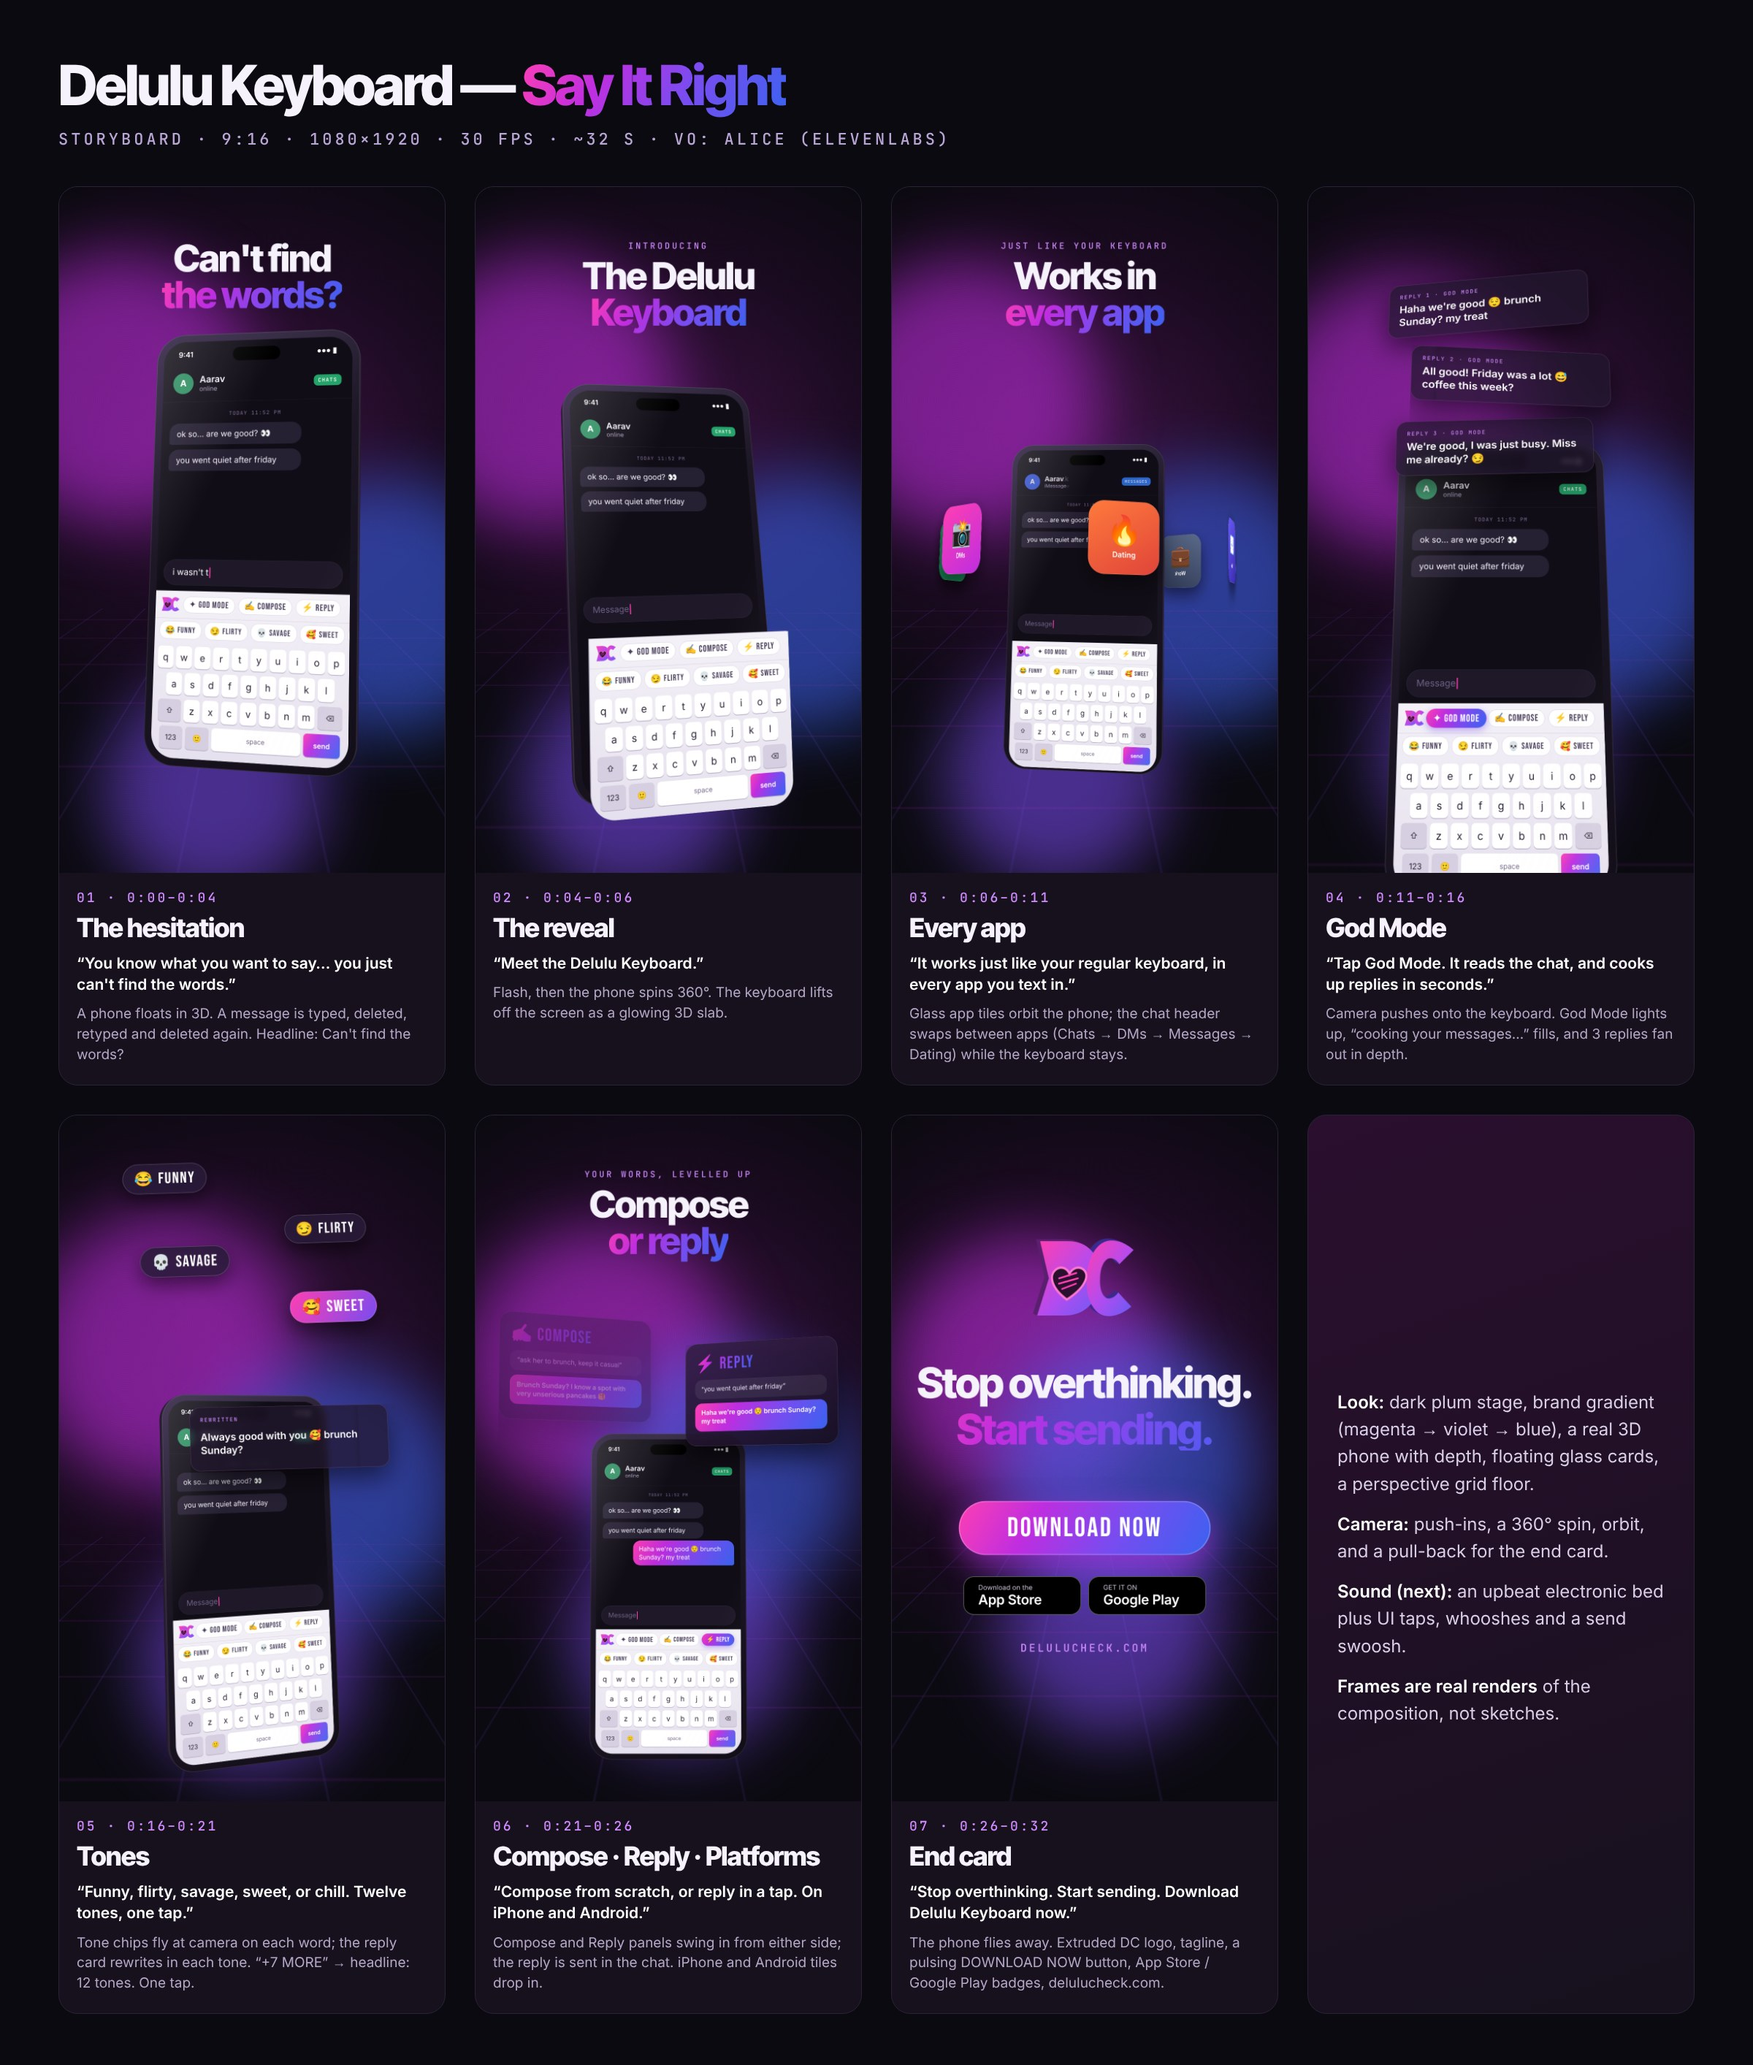
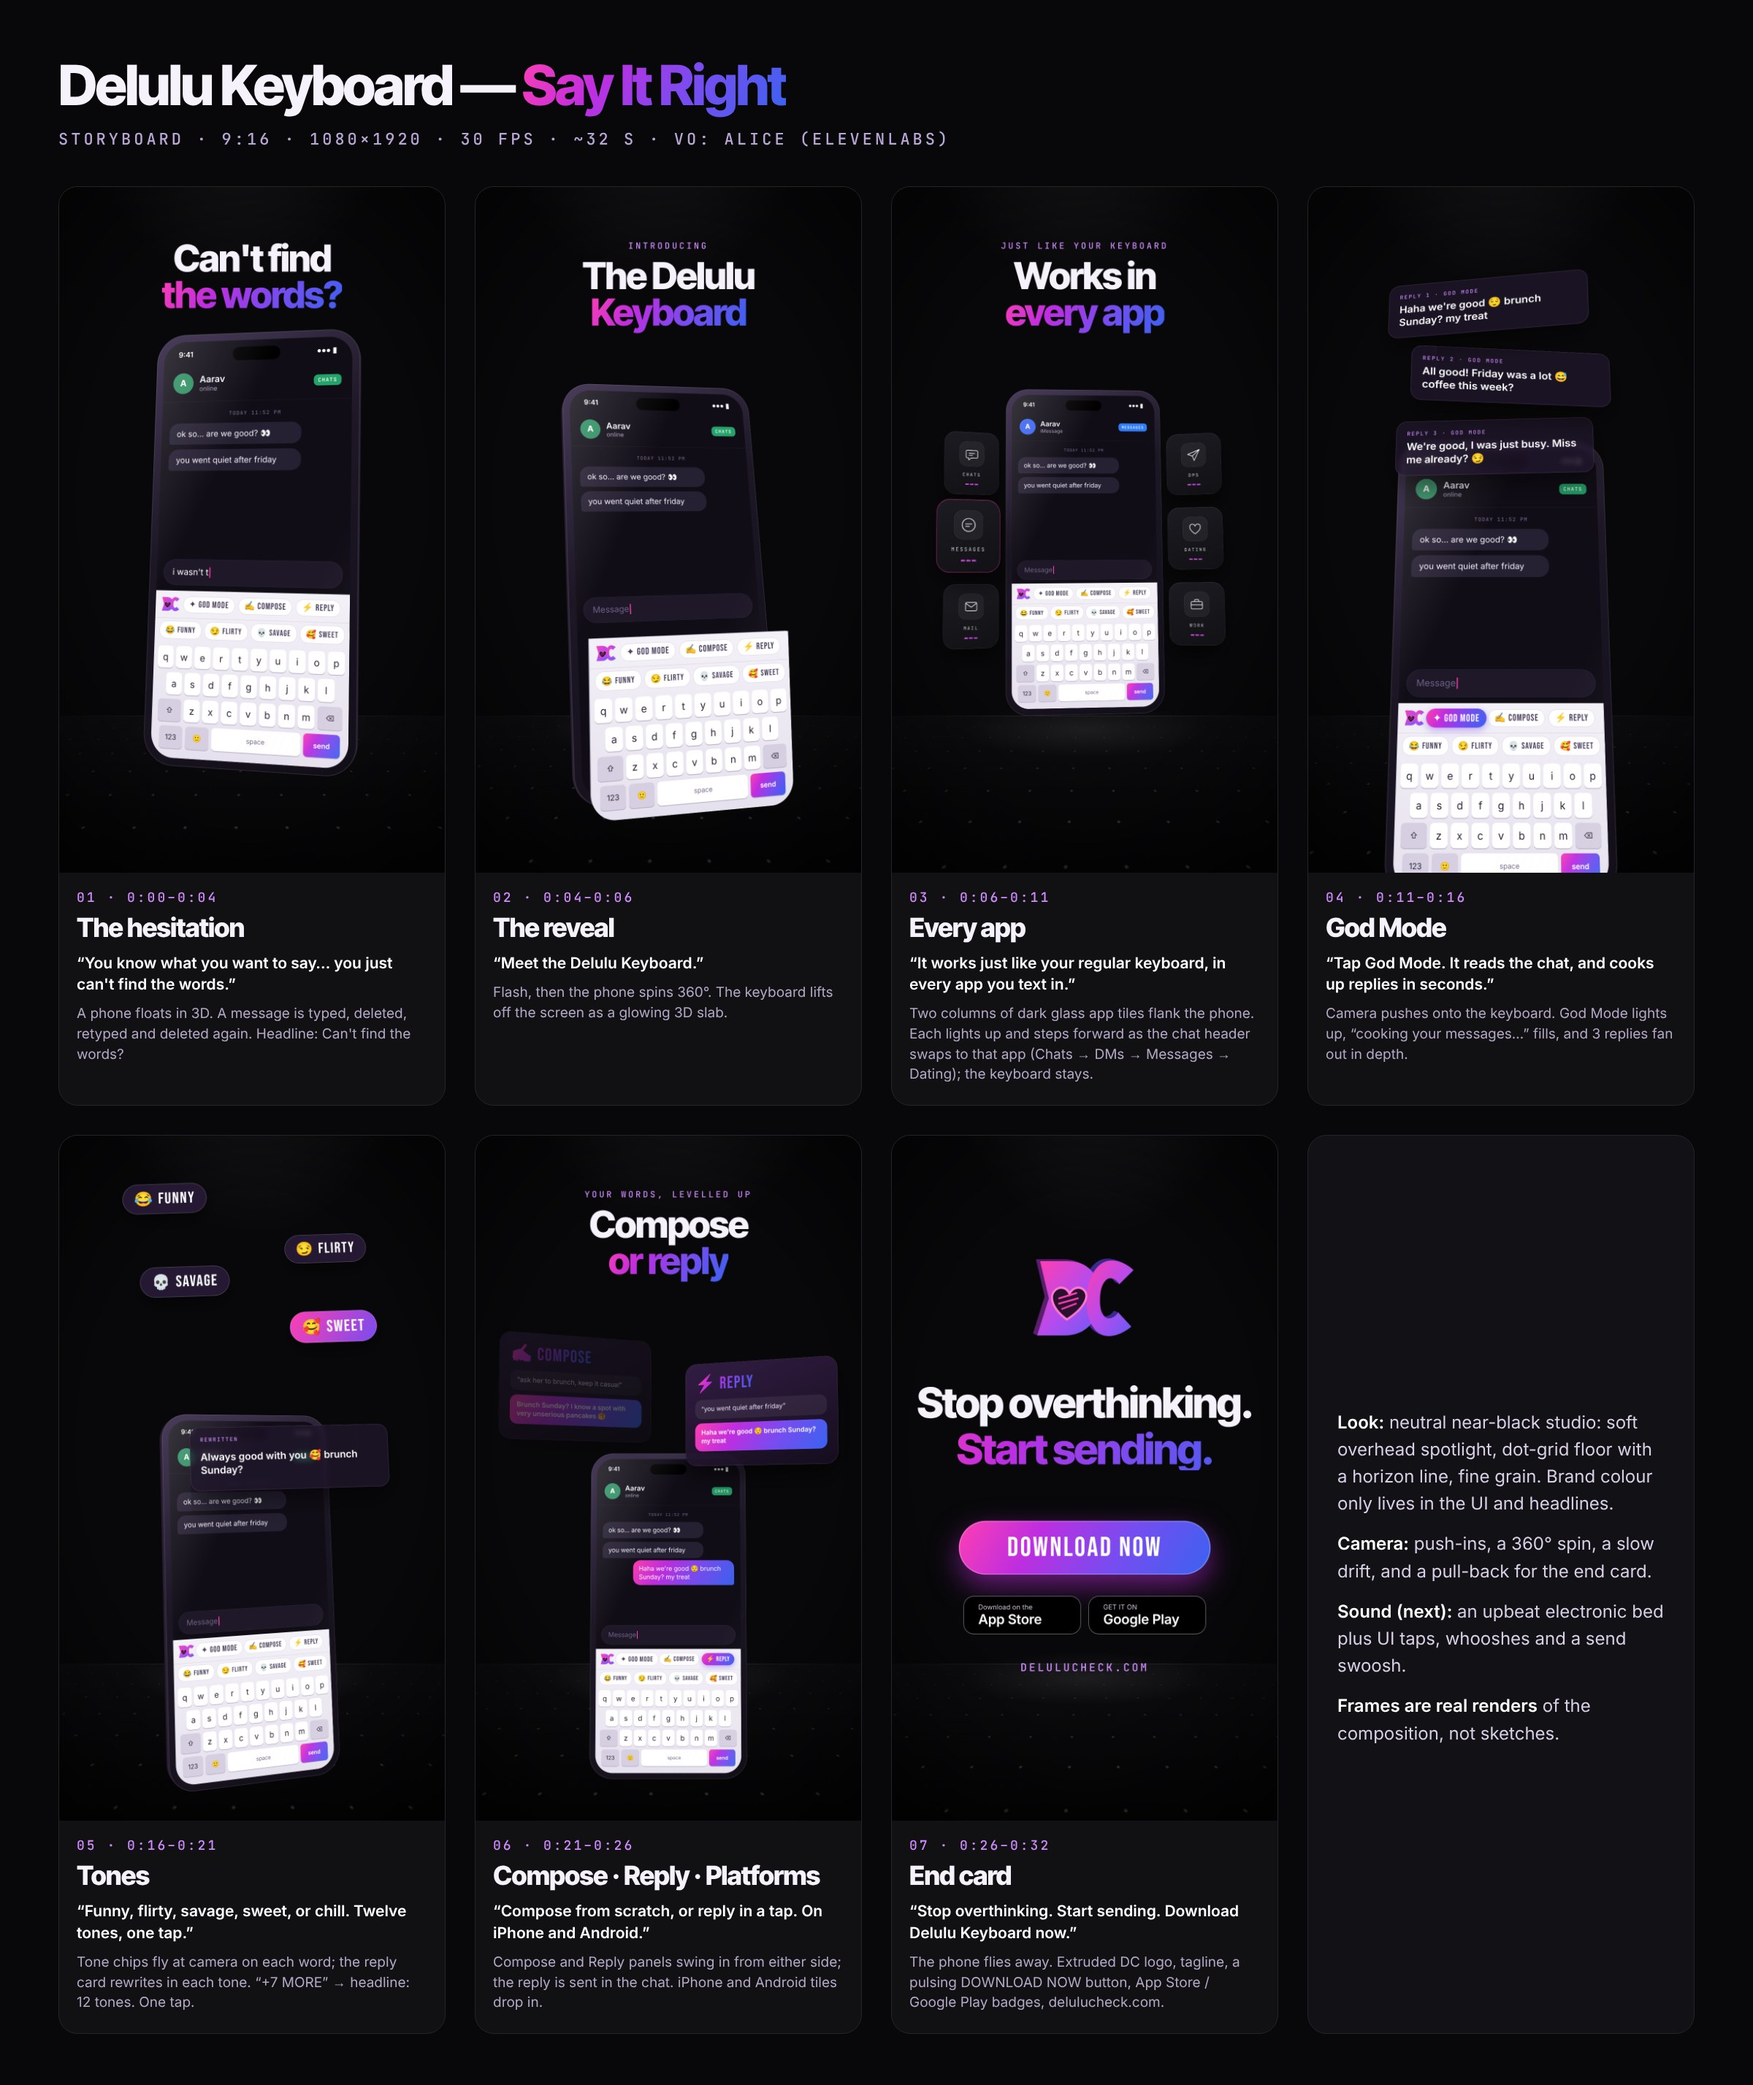
Delulu Keyboard: neutral studio background, redesigned app tiles in scene 3
Claude-Session: https://claude.ai/code/session_011HgaDvzB2TFRzZhuJwdZ16

diff --git a/delulu-keyboard/index.html b/delulu-keyboard/index.html
@@ -25,13 +25,18 @@ html,body{width:1080px;height:1920px;overflow:hidden;background:var(--ground)}
 .emo{font-family:Emo,sans-serif}
 
 /* ---------- background ---------- */
-#bg{background:radial-gradient(1200px 1100px at 50% 38%,#3a1340 0%,#1c0b22 45%,#0b0a10 80%)}
-.orb{position:absolute;border-radius:50%;filter:blur(90px);opacity:.55}
-#floor{position:absolute;left:-600px;right:-600px;top:1180px;height:1400px;transform-origin:50% 0;
-  transform:perspective(900px) rotateX(72deg);
-  background-image:linear-gradient(rgba(192,46,224,.28) 2px,transparent 2px),linear-gradient(90deg,rgba(122,76,240,.28) 2px,transparent 2px);
-  background-size:120px 120px;-webkit-mask-image:linear-gradient(#000,transparent 70%);mask-image:linear-gradient(#000,transparent 70%)}
-#grain{position:absolute;inset:0;opacity:.07;mix-blend-mode:overlay;
+#bg{background:#08080a}
+#spot{position:absolute;left:-200px;right:-200px;top:-500px;height:2000px;
+  background:radial-gradient(ellipse 700px 1100px at 50% 0%,rgba(235,232,240,.13) 0%,rgba(235,232,240,.05) 40%,rgba(0,0,0,0) 72%)}
+#horizon{position:absolute;left:0;right:0;top:1480px;height:440px;background:linear-gradient(#0d0d10,#060607)}
+#hline{position:absolute;left:0;right:0;top:1480px;height:1px;background:linear-gradient(90deg,transparent,rgba(255,255,255,.14) 30%,rgba(255,255,255,.14) 70%,transparent)}
+#pool{position:absolute;left:190px;width:700px;top:1440px;height:160px;border-radius:50%;background:radial-gradient(closest-side,rgba(255,255,255,.07),transparent)}
+#vig{position:absolute;inset:0;background:radial-gradient(ellipse 900px 1300px at 50% 45%,transparent 55%,rgba(0,0,0,.65) 100%)}
+#floor{position:absolute;left:-600px;right:-600px;top:1480px;height:1400px;transform-origin:50% 0;
+  transform:perspective(700px) rotateX(70deg);
+  background-image:radial-gradient(circle,rgba(255,255,255,.22) 1.6px,transparent 2.2px);
+  background-size:64px 64px;-webkit-mask-image:linear-gradient(rgba(0,0,0,.25),#000 30%,transparent 80%);mask-image:linear-gradient(rgba(0,0,0,.25),#000 30%,transparent 80%)}
+#grain{position:absolute;inset:0;opacity:.05;mix-blend-mode:overlay;
   background-image:repeating-radial-gradient(circle at 17% 31%,#fff 0 1px,transparent 1px 3px)}
 
 /* ---------- stage / 3D ---------- */
@@ -94,10 +99,14 @@ html,body{width:1080px;height:1920px;overflow:hidden;background:var(--ground)}
 .card .lab{font:500 16px Mono;letter-spacing:3px;color:#d08bff;margin-bottom:10px}
 .card .tx{font:600 30px/1.3 Inter;color:#fff}
 .reply{width:560px}
-.appcard{width:230px;height:230px;border-radius:52px;display:flex;flex-direction:column;align-items:center;justify-content:center;gap:14px;
-  border:1.5px solid rgba(255,255,255,.18);box-shadow:0 30px 70px rgba(0,0,0,.5)}
-.appcard .ic{font-size:92px;line-height:1}
-.appcard .nm{font:600 24px Inter;color:#fff}
+.appcard{position:absolute;width:210px;height:240px;border-radius:44px;display:flex;flex-direction:column;align-items:center;justify-content:center;gap:22px;
+  background:linear-gradient(160deg,#1d1c22 0%,#121115 100%);border:1px solid rgba(255,255,255,.12);
+  box-shadow:0 1px 0 rgba(255,255,255,.10) inset,0 40px 80px rgba(0,0,0,.6)}
+.appcard .ic{width:96px;height:96px;border-radius:28px;display:flex;align-items:center;justify-content:center;
+  background:rgba(255,255,255,.05);border:1px solid rgba(255,255,255,.10)}
+.appcard .ic svg{width:54px;height:54px;fill:none;stroke:#f2eff6;stroke-width:2.2;stroke-linecap:round;stroke-linejoin:round}
+.appcard .nm{font:500 17px Mono;letter-spacing:4px;color:#b9b4c2}
+.appcard .kb{display:flex;gap:4px}.appcard .kb i{width:14px;height:6px;border-radius:2px;background:linear-gradient(90deg,#ff3fb4,#7a4cf0)}
 .tone3d{position:absolute;height:96px;padding:0 34px;border-radius:48px;display:flex;align-items:center;gap:14px;
   font:400 50px Bebas;letter-spacing:3px;color:#fff;background:rgba(40,26,56,.85);border:2px solid rgba(255,255,255,.18);box-shadow:0 24px 60px rgba(0,0,0,.5);white-space:nowrap}
 .tone3d .emo{font-size:46px}
@@ -133,10 +142,12 @@ html,body{width:1080px;height:1920px;overflow:hidden;background:var(--ground)}
 <div id="root" data-composition-id="main" data-start="0" data-duration="32.5" data-width="1080" data-height="1920">
 
   <div id="bg" class="clip" data-start="0" data-duration="32.5" data-track-index="0">
-    <div class="orb" id="o1" style="left:-220px;top:180px;width:760px;height:760px;background:#c02ee0"></div>
-    <div class="orb" id="o2" style="left:560px;top:820px;width:720px;height:720px;background:#3b63f0"></div>
-    <div class="orb" id="o3" style="left:120px;top:1380px;width:620px;height:620px;background:#7a4cf0"></div>
+    <div id="spot"></div>
+    <div id="horizon"></div>
     <div id="floor"></div>
+    <div id="hline"></div>
+    <div id="pool"></div>
+    <div id="vig"></div>
     <div id="grain"></div>
   </div>
 
@@ -174,7 +185,7 @@ html,body{width:1080px;height:1920px;overflow:hidden;background:var(--ground)}
       </div>
 
       <!-- app ring (S3) -->
-      <div id="ring" class="p3" style="left:0;top:-200px"></div>
+      <div id="ring" class="p3" style="left:0;top:0"></div>
 
       <!-- reply cards (S4) -->
       <div id="replies" class="p3" style="left:0;top:0"></div>
@@ -270,8 +281,17 @@ $('#rows').innerHTML = R.map((r, i) => `<div class="row">${i === 2 ? '<div class
   `<div class="row"><div class="k w">123</div><div class="k w emo">🙂</div><div class="k sp">space</div><div class="k go">send</div></div>`;
 
 // app ring
-const RING = [['💬', 'Messages', '#2f7cf6,#3b63f0'], ['🟢', 'Chats', '#1f9d63,#137a4c'], ['📸', 'DMs', '#ff3fb4,#c02ee0'], ['🔥', 'Dating', '#ff7a3d,#e0453a'], ['✉', 'Mail', '#6a5cf5,#3b2ab0'], ['💼', 'Work', '#5b6b8a,#2c3550']];
-$('#ring').innerHTML = RING.map((a, i) => `<div class="appcard p3 rc" style="left:-115px;top:-115px;background:linear-gradient(150deg,${a[2]});transform:rotateY(${i * 60}deg) translateZ(560px)"><div class="ic emo">${a[0]}</div><div class="nm">${a[1]}</div></div>`).join('');
+const ICON = {
+  chat: '<path d="M8 12h32a4 4 0 0 1 4 4v18a4 4 0 0 1-4 4H22l-9 7v-7H8a4 4 0 0 1-4-4V16a4 4 0 0 1 4-4z"/><path d="M14 22h20M14 29h12"/>',
+  dm: '<path d="M44 6 4 22l16 6 6 16z"/><path d="M20 28 44 6"/>',
+  msg: '<circle cx="24" cy="24" r="19"/><path d="M15 21h18M15 28h11"/>',
+  heart: '<path d="M24 41S6 30 6 18a9 9 0 0 1 18-3 9 9 0 0 1 18 3c0 12-18 23-18 23z"/>',
+  mail: '<rect x="5" y="10" width="38" height="28" rx="4"/><path d="m6 13 18 13 18-13"/>',
+  work: '<rect x="5" y="15" width="38" height="25" rx="4"/><path d="M17 15v-4a3 3 0 0 1 3-3h8a3 3 0 0 1 3 3v4M5 26h38"/>'
+};
+const RING = [['chat', 'CHATS'], ['dm', 'DMS'], ['msg', 'MESSAGES'], ['heart', 'DATING'], ['mail', 'MAIL'], ['work', 'WORK']];
+const TPOS = [[-430, -330], [430, -330], [-430, -40], [430, -40], [-430, 250], [430, 250]];
+$('#ring').innerHTML = RING.map((a, i) => `<div class="appcard p3 rc" id="rc${i}" style="left:${TPOS[i][0] - 105}px;top:${TPOS[i][1] - 120}px"><div class="ic"><svg viewBox="0 0 48 48">${ICON[a[0]]}</svg></div><div class="nm">${a[1]}</div><div class="kb"><i></i><i></i><i></i></div></div>`).join('');
 
 // reply cards
 const REPL = ['Haha we\'re good 😌 brunch Sunday? my treat', 'All good! Friday was a lot 😅 coffee this week?', 'We\'re good, I was just busy. Miss me already? 😏'];
@@ -295,10 +315,8 @@ gsap.set('#kb', { z: 0 });
 gsap.set('.hl', { y: 30 });
 
 // background life
-tl.to('#o1', { x: 220, y: 160, duration: 32.5, ease: 'sine.inOut' }, 0)
-  .to('#o2', { x: -260, y: -200, duration: 32.5, ease: 'sine.inOut' }, 0)
-  .to('#o3', { x: 180, y: -260, duration: 32.5, ease: 'sine.inOut' }, 0)
-  .to('#floor', { backgroundPosition: '0px 960px', duration: 32.5, ease: 'none' }, 0);
+tl.to('#floor', { backgroundPosition: '0px 640px', duration: 32.5, ease: 'none' }, 0)
+  .fromTo('#spot', { x: -40 }, { x: 40, duration: 32.5, ease: 'sine.inOut' }, 0);
 
 const hlIn = (id, t, out) => { tl.to(id, { opacity: 1, y: 0, duration: 0.5 }, t).to(id, { opacity: 0, y: -30, duration: 0.35, ease: 'power2.in' }, out); };
 
@@ -321,14 +339,21 @@ hlIn('#h2', 4.4, 6.0);
 /* S3 6.2–10.7: works in every app — ring orbits */
 tl.set('#rig', { rotationY: 14 }, 6.1);
 tl.to('#kb', { z: 0, y: 0, rotationX: 0, duration: 0.6, ease: 'power2.inOut' }, 6.1);
-tl.to('#rig', { rotationY: -8, rotationX: 8, z: -420, y: 220, scale: 0.86, duration: 1.0, ease: E }, 6.1);
-tl.fromTo('#ring', { opacity: 0, rotationY: 30, scale: 0.6 }, { opacity: 1, scale: 1, duration: 0.9 }, 6.4);
-tl.to('#ring', { rotationY: -300, duration: 4.4, ease: 'sine.inOut' }, 6.4);
+tl.to('#rig', { rotationY: 0, rotationX: 6, z: -420, y: 40, scale: 0.86, duration: 1.0, ease: E }, 6.1);
+tl.to('#rig', { rotationY: 8, duration: 3.4, ease: 'sine.inOut' }, 7.1);
+document.querySelectorAll('.rc').forEach((c, i) => {
+  tl.fromTo(c, { opacity: 0, z: -700, rotationY: i % 2 ? -50 : 50 }, { opacity: 1, z: 0, rotationY: i % 2 ? -14 : 14, duration: 0.8, ease: 'power3.out' }, 6.45 + i * 0.07);
+});
+const lit = (i, on, off) => {
+  tl.to(`#rc${i}`, { z: 180, scale: 1.08, borderColor: 'rgba(255,63,180,.9)', boxShadow: '0 0 0 1px rgba(255,63,180,.6), 0 30px 90px rgba(192,46,224,.35)', duration: 0.3 }, on)
+    .to(`#rc${i}`, { z: 0, scale: 1, borderColor: 'rgba(255,255,255,.12)', boxShadow: '0 1px 0 rgba(255,255,255,.10) inset, 0 40px 80px rgba(0,0,0,.6)', duration: 0.3 }, off);
+};
+lit(0, 6.9, 7.55); lit(1, 7.6, 8.7); lit(2, 8.75, 9.65); lit(3, 9.7, 10.25);
 [7.6, 8.75, 9.7].forEach((t, i) => {               // header swaps app by app
   tl.to(`#ah${i}`, { opacity: 0, duration: 0.15 }, t).to(`#ah${i + 1}`, { opacity: 1, duration: 0.15 }, t);
   tl.to('#kb', { y: 22, duration: 0.08, ease: 'none' }, t).to('#kb', { y: 0, duration: 0.35, ease: 'back.out(2)' }, t + 0.08);
 });
-tl.to('#ring', { opacity: 0, scale: 1.3, duration: 0.5, ease: 'power2.in' }, 10.3);
+tl.to('.rc', { opacity: 0, z: -600, duration: 0.45, ease: 'power2.in', stagger: 0.03 }, 10.3);
 hlIn('#h3', 6.5, 10.4);
 
 /* S4 10.7–16: God Mode */
